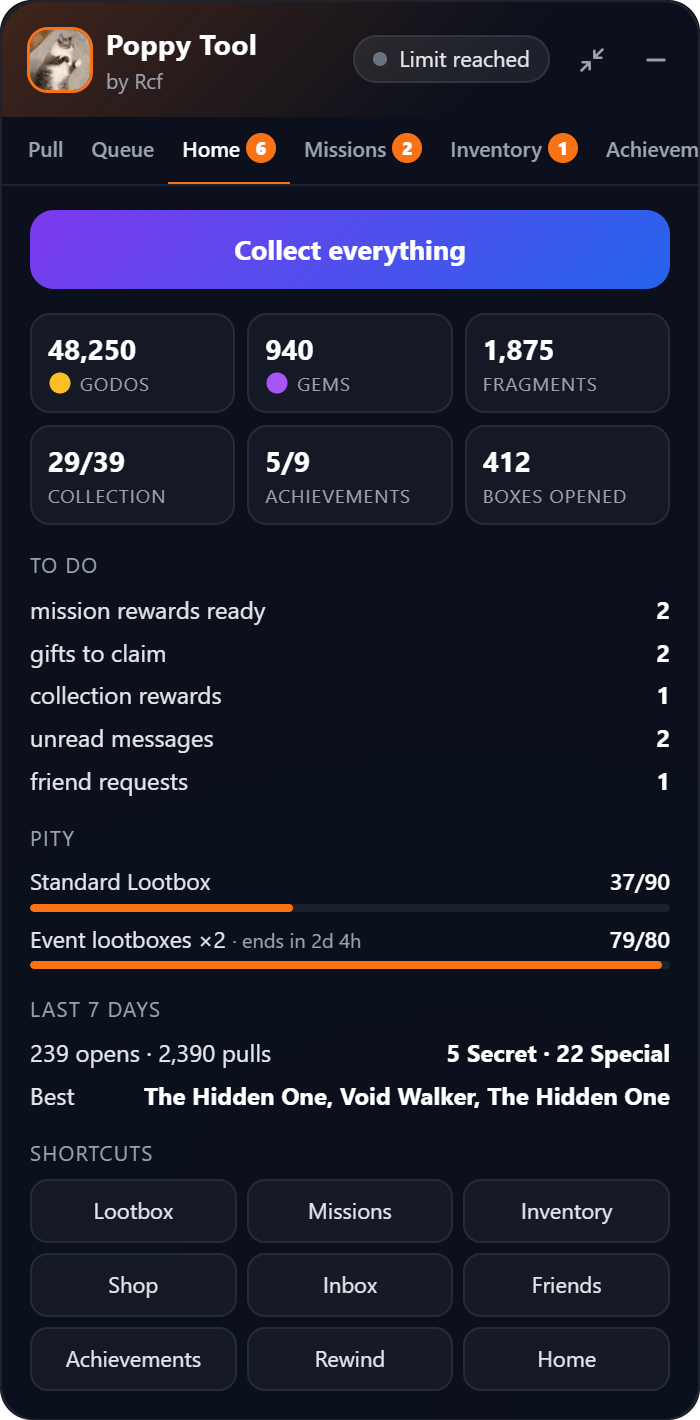
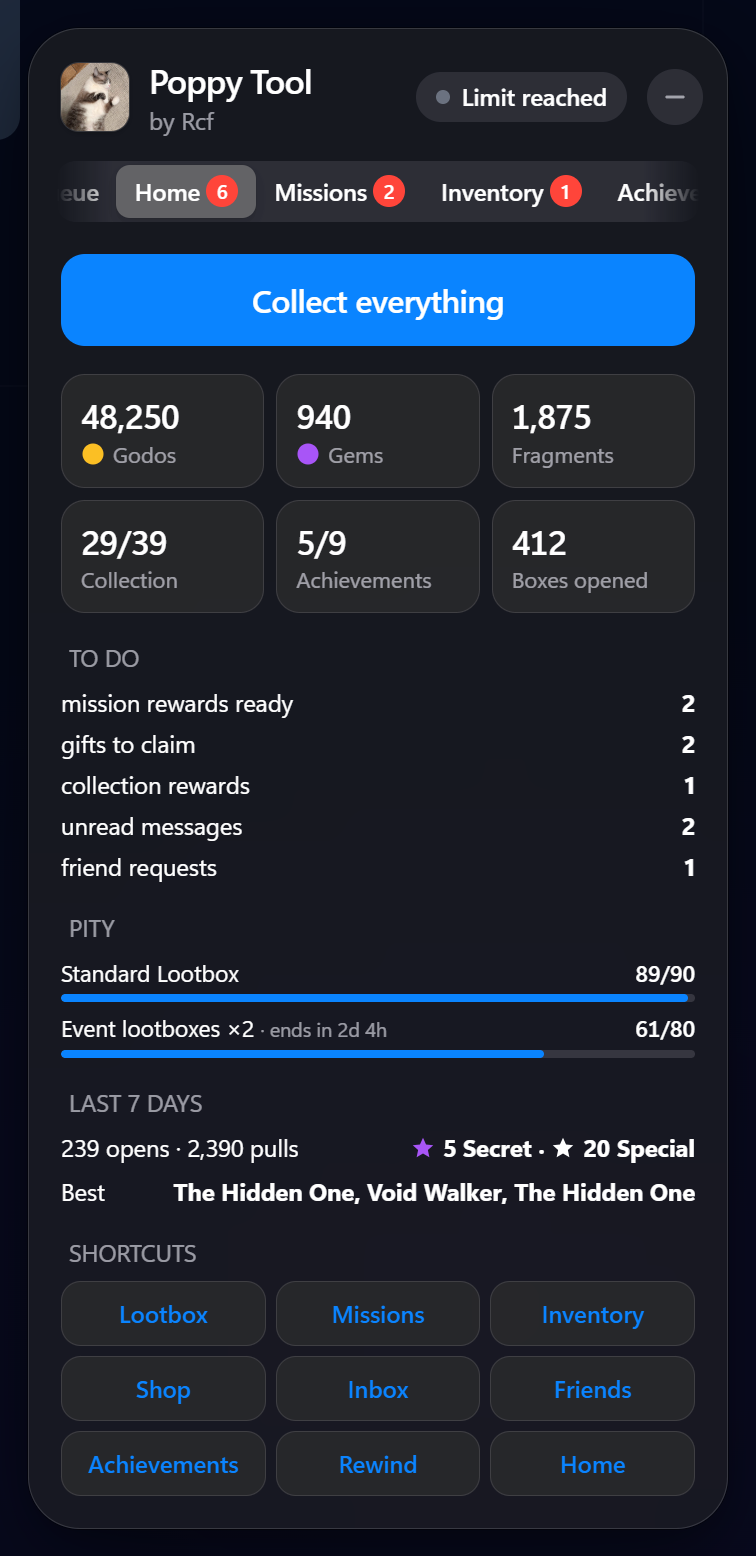
Release 5.1.5: the Apple / SwiftUI version becomes the stable one
- Stable version number (no "test" name in the manifest)
- CHANGELOG: 5.1.5 entry summing up the 5.1.0-test to 5.1.5-test pre-releases
- README: new screenshots (dark + light), Apple look and star rarities in the features, releases table with 5.1.5 as latest
- Test-only screenshots folder removed

diff --git a/README.md b/README.md
@@ -43,17 +43,12 @@ Poppy Tool was called **Auto Pull** until version 5.0.0.
 </tr>
 </table>
 
-<sub>Taken from a real Poppy Tool session (30 opens, 300 pulls) run by the extension on a local copy of the lootbox page with <b>demo data</b>: the characters, balances and missions are made up.</sub>
-
-### Apple / SwiftUI look (test branch)
-
-The [`test`](https://github.com/RcfTv/Poppy-tool/tree/test) branch (pre-release **5.1.5-test**) restyles the panel like an Apple app: SF font, translucent materials, iOS colours, segmented tabs, iOS switches, star rarity markers, a custom accent colour picker and smooth Apple-style animations.
+<sub>Apple / SwiftUI look, dark and light theme. Taken from a real Poppy Tool session (30 opens, 300 pulls) run by the extension on a local copy of the lootbox page with <b>demo data</b>: the characters, balances and missions are made up.</sub>
 
 <table><tr>
-<td align="center" valign="top"><img src="docs/screenshots/apple/pull-dark.png" width="190" alt="Pull (dark)"><br><b>Pull (dark)</b></td>
-<td align="center" valign="top"><img src="docs/screenshots/apple/stats-dark.png" width="190" alt="Stats (dark)"><br><b>Stats (dark)</b></td>
-<td align="center" valign="top"><img src="docs/screenshots/apple/home-light.png" width="190" alt="Home (light)"><br><b>Home (light)</b></td>
-<td align="center" valign="top"><img src="docs/screenshots/apple/missions-light.png" width="190" alt="Missions (light)"><br><b>Missions (light)</b></td>
+<td align="center" valign="top"><img src="docs/screenshots/pull-light.png" width="250" alt="Pull tab, light theme"><br><b>Pull (light)</b></td>
+<td align="center" valign="top"><img src="docs/screenshots/home-light.png" width="250" alt="Home tab, light theme"><br><b>Home (light)</b></td>
+<td align="center" valign="top"><img src="docs/screenshots/inventory-light.png" width="250" alt="Inventory tab, light theme"><br><b>Inventory (light)</b></td>
 </tr></table>
 
 ## Features
@@ -69,6 +64,8 @@ Bottom-right by default, works in any language of the site.
 - 🖱 **Drag it by its top bar** and drop it anywhere: it stays there. Drop it near a corner (or double-click the bar) to snap it into the corner. "-" folds it down to its top bar.
 - ⌨ **Alt+P** = Start / Stop.
 - 🌍 **French, English or Italian**: the panel speaks all three (Settings > Look).
+- 🍎 **Apple / SwiftUI look**: light or dark theme, segmented tabs, iOS switches, smooth animations. Pick one of 15 accent colours or your own with the colour picker (Settings > Look).
+- ⭐ **Rarities at a glance**: every rarity has its coloured star, everywhere in the panel.
 - 🔎 **Searchable dropdowns**: every dropdown (lootbox, stop target, etc.) is searchable. Click it and type to filter, handy for the 200-character lists.
 
 | Tab | What's inside |
@@ -110,13 +107,9 @@ Every version is on the [Releases page](https://github.com/RcfTv/Poppy-tool/rele
 
 | Release | Highlights | Download |
 |---------|------------|----------|
-| [5.1.5-test](https://github.com/RcfTv/Poppy-tool/releases/tag/v5.1.5-test) (pre-release, `test` branch) | Move the panel anywhere, snap near corners, animated minimise | [poppy-tool-v5.1.5-test.zip](https://github.com/RcfTv/Poppy-tool/releases/download/v5.1.5-test/poppy-tool-v5.1.5-test.zip) |
-| [5.1.4-test](https://github.com/RcfTv/Poppy-tool/releases/tag/v5.1.4-test) (pre-release, `test` branch) | Smooth Apple-style animations everywhere | [poppy-tool-v5.1.4-test.zip](https://github.com/RcfTv/Poppy-tool/releases/download/v5.1.4-test/poppy-tool-v5.1.4-test.zip) |
-| [5.1.3-test](https://github.com/RcfTv/Poppy-tool/releases/tag/v5.1.3-test) (pre-release, `test` branch) | Whole tool harmonised (toolbar popup, queue, sliders, settings, icons) | [poppy-tool-v5.1.3-test.zip](https://github.com/RcfTv/Poppy-tool/releases/download/v5.1.3-test/poppy-tool-v5.1.3-test.zip) |
-| [5.1.2-test](https://github.com/RcfTv/Poppy-tool/releases/tag/v5.1.2-test) (pre-release, `test` branch) | Uniform star rarity markers everywhere | [poppy-tool-v5.1.2-test.zip](https://github.com/RcfTv/Poppy-tool/releases/download/v5.1.2-test/poppy-tool-v5.1.2-test.zip) |
-| [5.1.1-test](https://github.com/RcfTv/Poppy-tool/releases/tag/v5.1.1-test) (pre-release, `test` branch) | Custom accent colours, star rarity markers, dropdown and tab fixes | [poppy-tool-v5.1.1-test.zip](https://github.com/RcfTv/Poppy-tool/releases/download/v5.1.1-test/poppy-tool-v5.1.1-test.zip) |
-| [5.1.0-test](https://github.com/RcfTv/Poppy-tool/releases/tag/v5.1.0-test) (pre-release, `test` branch) | Apple / SwiftUI look | [poppy-tool-v5.1.0-test.zip](https://github.com/RcfTv/Poppy-tool/releases/download/v5.1.0-test/poppy-tool-v5.1.0-test.zip) |
-| [**5.0.3**](https://github.com/RcfTv/Poppy-tool/releases/tag/v5.0.3) (latest) | Scrollbars styled to match the panel | [poppy-tool-v5.0.3.zip](https://github.com/RcfTv/Poppy-tool/releases/download/v5.0.3/poppy-tool-v5.0.3.zip) |
+| [**5.1.5**](https://github.com/RcfTv/Poppy-tool/releases/tag/v5.1.5) (latest) | Apple / SwiftUI look, accent colour picker, star rarities, animations, move the panel anywhere | [poppy-tool-v5.1.5.zip](https://github.com/RcfTv/Poppy-tool/releases/download/v5.1.5/poppy-tool-v5.1.5.zip) |
+| [5.1.0-test → 5.1.5-test](https://github.com/RcfTv/Poppy-tool/releases?q=test) (pre-releases, `test` branch) | Test builds of 5.1.5, step by step | on each release page |
+| [5.0.3](https://github.com/RcfTv/Poppy-tool/releases/tag/v5.0.3) | Scrollbars styled to match the panel | [poppy-tool-v5.0.3.zip](https://github.com/RcfTv/Poppy-tool/releases/download/v5.0.3/poppy-tool-v5.0.3.zip) |
 | [5.0.2](https://github.com/RcfTv/Poppy-tool/releases/tag/v5.0.2) | Compatibility with the updated Cripsum lootbox page | [poppy-tool-v5.0.2.zip](https://github.com/RcfTv/Poppy-tool/releases/download/v5.0.2/poppy-tool-v5.0.2.zip) |
 | [5.0.1](https://github.com/RcfTv/Poppy-tool/releases/tag/v5.0.1) | First version on GitHub | [poppy-tool-v5.0.1.zip](https://github.com/RcfTv/Poppy-tool/releases/download/v5.0.1/poppy-tool-v5.0.1.zip) |
 | ≤ 5.0.0 | Released as **Auto Pull** (not on GitHub) | — |

diff --git a/CHANGELOG.md b/CHANGELOG.md
@@ -1,5 +1,17 @@
 # Changelog
 
+## 5.1.5 — October 8, 2026
+
+Everything from the 5.1.0-test to 5.1.5-test pre-releases (`test` branch), now in the stable version:
+
+- **Apple / SwiftUI look**: SF font, translucent materials, iOS system colours in light and dark, segmented-control tabs, iOS switches and sliders, grouped inset lists; the toolbar popup matches the panel
+- **Accent colours**: 15 colours plus a custom colour picker (colour area, hue slider, hex field, live preview); "Pin" keeps up to 8 custom colours
+- **Rarities** are shown with the same coloured star everywhere (dropdowns, session counts, best pulls, Stats, inventory, history, Home)
+- **Animations** with Apple's curves: sliding tab highlight, pages and pop-ups easing in, buttons and switches that press in, counters that bounce, progress bars that glide (off with the system "reduce motion" setting)
+- **Move the panel anywhere**: it stays where it is dropped; near a corner (or with a double-click on the header) it snaps into the corner; minimise / restore is animated
+- **Dropdowns** follow the panel when it scrolls and use the panel style on every page; the tab bar scrolls with the mouse wheel
+- Compact mode removed
+
 ## 5.1.5-test — October 8, 2026 (test branch, pre-release)
 
 - The panel can be moved anywhere and stays where it is dropped (also after a reload); it is kept relative to the nearest window edges, so it stays on screen when the window gets smaller
